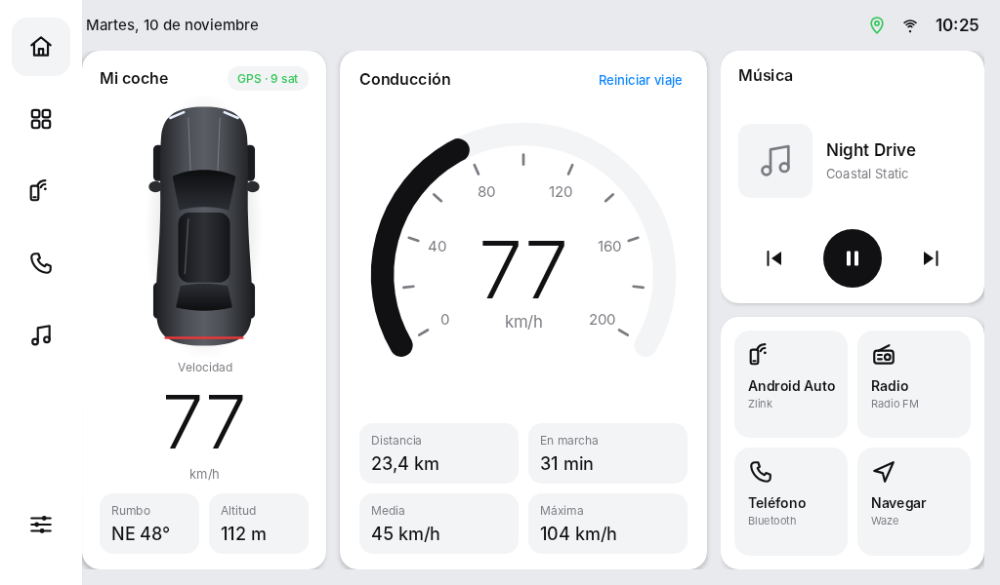
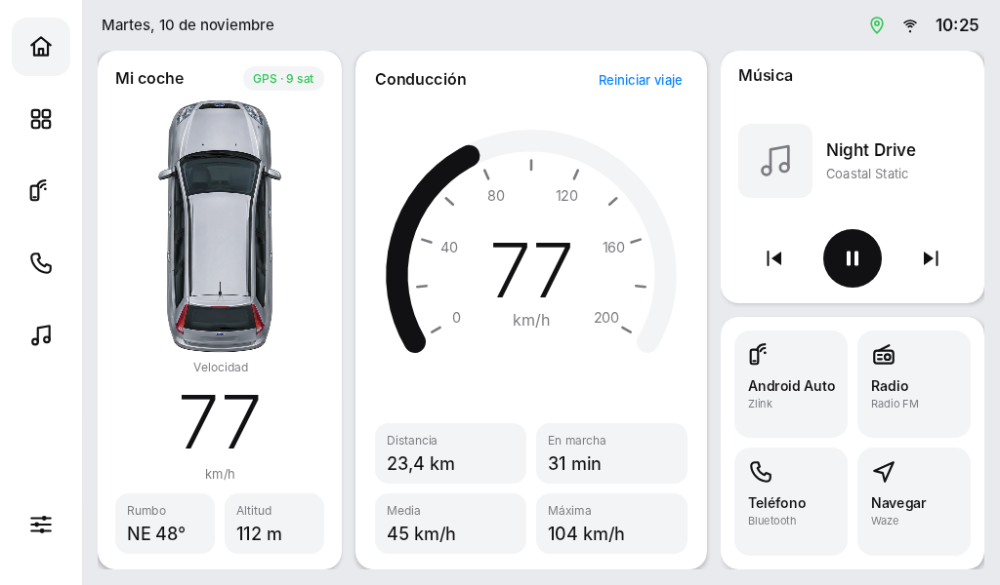
EdgeOS Car: imagen del coche personalizable, pantalla completa y márgenes
- La tarjeta "Mi coche" muestra una imagen: la de serie o la que elija el
  usuario desde el gestor de archivos (Sistema → Imagen del coche), que se
  copia a la memoria de la app. En radios sin gestor de archivos busca
  coche.png en la raíz de la memoria USB. Incluye una guía para generarla
  con IA: vista cenital, morro arriba, 1:2 (600 × 1200 px), fondo
  transparente o blanco. Fuera el coche dibujado.
- Pantalla completa inmersiva: sin barra de estado ni de navegación.
- Las tarjetas ya no se pegan a la barra lateral: mismo margen a los lados.

Claude-Session: https://claude.ai/code/session_01PvmPvmMTmhy1XMN1nUXEbe

diff --git a/car/src/main/kotlin/io/edgeos/car/HomeActivity.kt b/car/src/main/kotlin/io/edgeos/car/HomeActivity.kt
@@ -86,6 +86,7 @@ class HomeActivity : Activity() {
         apps = Apps(applicationContext)
         optimizer = Optimizer(applicationContext, prefs)
         setContentView(build())
+        Thread { CarImage.load(this)?.let { b -> main.post { carCard.setCar(b) } } }.start()
 
         drive.listen { s ->
             carCard.update(s)
@@ -116,7 +117,8 @@ class HomeActivity : Activity() {
         root.addView(rail, lp(px(84), MATCH))
 
         val content = Ui.column(this)
-        content.setPadding(0, 0, px(16), px(16))
+        // Mismo margen a los dos lados: las tarjetas no se pegan a la barra lateral.
+        content.setPadding(px(16), 0, px(16), px(16))
         topBar = TopBar(this)
         content.addView(topBar, lp(MATCH, px(52)))
         pages = FrameLayout(this)
@@ -155,6 +157,12 @@ class HomeActivity : Activity() {
             onShowMap = { showCenter() },
             onResetTrip = { drive.resetTrip() },
             onAskMediaAccess = ::askMediaAccess,
+            onPickCar = ::pickCar,
+            onResetCar = {
+                CarImage.reset(this)
+                carCard.setCar(null)
+                Toast.makeText(this, "Imagen de serie.", Toast.LENGTH_SHORT).show()
+            },
         )
         for (v in listOf(home, appsPage, systemPage)) pages.addView(v, FrameLayout.LayoutParams(MATCH, MATCH))
         show(Page.HOME)
@@ -229,6 +237,56 @@ class HomeActivity : Activity() {
             .onFailure { Toast.makeText(this, "Esta radio no tiene ese ajuste.", Toast.LENGTH_LONG).show() }
     }
 
+    // MARK: imagen del coche
+
+    private fun pickCar() {
+        val open = Intent(Intent.ACTION_OPEN_DOCUMENT).addCategory(Intent.CATEGORY_OPENABLE).setType("image/*")
+        val get = Intent(Intent.ACTION_GET_CONTENT).addCategory(Intent.CATEGORY_OPENABLE).setType("image/*")
+        for (intent in listOf(open, get)) {
+            if (runCatching { startActivityForResult(intent, PICK_CAR) }.isSuccess) return
+        }
+        // Algunas radios no traen selector de archivos: se busca coche.png en la memoria USB.
+        if (checkSelfPermission(Manifest.permission.READ_EXTERNAL_STORAGE) != PackageManager.PERMISSION_GRANTED) {
+            requestPermissions(arrayOf(Manifest.permission.READ_EXTERNAL_STORAGE), STORAGE)
+        } else {
+            carFromStorage()
+        }
+    }
+
+    private fun carFromStorage() {
+        val file = CarImage.findOnStorage()
+            ?: return Toast.makeText(this, "Copia la imagen como coche.png en la raíz de una memoria USB, conéctala y vuelve a pulsar.", Toast.LENGTH_LONG).show()
+        Thread { applyCar(runCatching { CarImage.save(this, file) }.getOrNull()) }.start()
+    }
+
+    override fun onActivityResult(requestCode: Int, resultCode: Int, data: Intent?) {
+        super.onActivityResult(requestCode, resultCode, data)
+        val uri = data?.data
+        if (requestCode != PICK_CAR || resultCode != RESULT_OK || uri == null) return
+        Thread { applyCar(runCatching { CarImage.save(this, uri) }.getOrNull()) }.start()
+    }
+
+    private fun applyCar(bitmap: android.graphics.Bitmap?) = main.post {
+        if (bitmap == null) return@post Toast.makeText(this, "No se pudo leer esa imagen.", Toast.LENGTH_LONG).show()
+        carCard.setCar(bitmap)
+        Toast.makeText(this, "Imagen del coche cambiada.", Toast.LENGTH_SHORT).show()
+    }
+
+    // MARK: pantalla completa
+
+    /** Sin barra de estado ni de navegación; deslizando desde el borde aparecen un momento y se vuelven a ocultar. */
+    @Suppress("DEPRECATION")
+    private fun immersive() {
+        window.decorView.systemUiVisibility = (View.SYSTEM_UI_FLAG_IMMERSIVE_STICKY or View.SYSTEM_UI_FLAG_FULLSCREEN or
+            View.SYSTEM_UI_FLAG_HIDE_NAVIGATION or View.SYSTEM_UI_FLAG_LAYOUT_STABLE or
+            View.SYSTEM_UI_FLAG_LAYOUT_HIDE_NAVIGATION or View.SYSTEM_UI_FLAG_LAYOUT_FULLSCREEN)
+    }
+
+    override fun onWindowFocusChanged(hasFocus: Boolean) {
+        super.onWindowFocusChanged(hasFocus)
+        if (hasFocus) immersive()
+    }
+
     private fun askLocation() {
         if (checkSelfPermission(Manifest.permission.ACCESS_FINE_LOCATION) != PackageManager.PERMISSION_GRANTED) {
             requestPermissions(arrayOf(Manifest.permission.ACCESS_FINE_LOCATION, Manifest.permission.ACCESS_COARSE_LOCATION), 1)
@@ -236,6 +294,11 @@ class HomeActivity : Activity() {
     }
 
     override fun onRequestPermissionsResult(requestCode: Int, permissions: Array<out String>, results: IntArray) {
+        if (requestCode == STORAGE) {
+            if (results.firstOrNull() == PackageManager.PERMISSION_GRANTED) carFromStorage()
+            else Toast.makeText(this, "Sin permiso de almacenamiento no puedo leer la memoria USB.", Toast.LENGTH_LONG).show()
+            return
+        }
         if (results.firstOrNull() == PackageManager.PERMISSION_GRANTED && resumed) drive.start()
         else if (results.isNotEmpty()) Toast.makeText(this, "Sin permiso de ubicación no hay velocidad.", Toast.LENGTH_LONG).show()
     }
@@ -250,6 +313,7 @@ class HomeActivity : Activity() {
     // ubicación en segundo plano; para contar el viaje siempre haría falta un servicio en primer plano.
     override fun onResume() {
         super.onResume()
+        immersive()
         resumed = true
         drive.start()
         media.start()
@@ -276,6 +340,11 @@ class HomeActivity : Activity() {
     override fun onNewIntent(intent: Intent) {
         super.onNewIntent(intent)
         if (intent.hasCategory(Intent.CATEGORY_HOME)) show(Page.HOME)
+    }
+
+    private companion object {
+        const val PICK_CAR = 7
+        const val STORAGE = 8
     }
 
     @Deprecated("Deprecated in Java")

diff --git a/car/src/main/kotlin/io/edgeos/car/ui/SystemPage.kt b/car/src/main/kotlin/io/edgeos/car/ui/SystemPage.kt
@@ -35,6 +35,8 @@ class SystemPage(
     private val onShowMap: (Boolean) -> Unit,
     private val onResetTrip: () -> Unit,
     private val onAskMediaAccess: () -> Unit,
+    private val onPickCar: () -> Unit,
+    private val onResetCar: () -> Unit,
 ) : LinearLayout(context) {
     private val main = Handler(Looper.getMainLooper())
     private val work = Executors.newSingleThreadExecutor()
@@ -70,6 +72,7 @@ class SystemPage(
         left.addView(stateCard())
         left.addView(quickCard(), lp(MATCH, WRAP).apply { topMargin = px(14) })
         left.addView(settingsCard(), lp(MATCH, WRAP).apply { topMargin = px(14) })
+        left.addView(carCard(), lp(MATCH, WRAP).apply { topMargin = px(14) })
         val scroll = ScrollView(context).apply { isVerticalScrollBarEnabled = false; clipToPadding = false; setPadding(px(2), 0, px(2), px(4)) }
         scroll.addView(left)
         addView(scroll, lp(0, MATCH, 0.42f))
@@ -157,6 +160,33 @@ class SystemPage(
         addView(link("Pantalla de inicio predeterminada") {
             open(Intent(android.provider.Settings.ACTION_HOME_SETTINGS))
         })
+    }
+
+    private fun carCard() = card("Imagen del coche").apply {
+        val buttons = Ui.row(context)
+        val pick = Ui.text(context, "Elegir imagen…", 14f, android.graphics.Color.WHITE, Ui.semibold, Gravity.CENTER)
+        pick.background = Ui.pressable(Ui.INK, 12f)
+        pick.setPadding(0, px(12), 0, px(12))
+        pick.setOnClickListener { onPickCar() }
+        val reset = Ui.text(context, "Usar la de serie", 14f, Ui.TEXT, Ui.semibold, Gravity.CENTER)
+        reset.background = Ui.pressable(Ui.TILE, 12f)
+        reset.setPadding(0, px(12), 0, px(12))
+        reset.setOnClickListener { onResetCar() }
+        buttons.addView(pick, lp(0, WRAP, 1f))
+        buttons.addView(reset, lp(0, WRAP, 1f).apply { marginStart = px(10) })
+        addView(buttons, lp(MATCH, WRAP).apply { topMargin = px(4) })
+
+        val guide = Ui.text(context, CAR_GUIDE, 12f, Ui.TEXT2).apply {
+            maxLines = 40
+            ellipsize = null
+            setLineSpacing(0f, 1.25f)
+        }
+        val box = Ui.column(context)
+        box.background = Ui.rounded(Ui.TILE, 12f)
+        box.setPadding(px(14), px(12), px(14), px(12))
+        box.addView(Ui.text(context, "Cómo crear la tuya con IA", 13f, Ui.TEXT, Ui.semibold))
+        box.addView(guide, lp(MATCH, WRAP).apply { topMargin = px(6) })
+        addView(box, lp(MATCH, WRAP).apply { topMargin = px(12) })
     }
 
     private fun link(text: String, action: () -> Unit) = Ui.text(context, text, 14f, Ui.ACCENT, Ui.medium).apply {
@@ -334,4 +364,13 @@ class SystemPage(
     }
 
     private fun toast(text: String) = Toast.makeText(context, text, Toast.LENGTH_LONG).show()
+
+    private companion object {
+        val CAR_GUIDE = """
+            1. Pide a una IA de imágenes (ChatGPT, Gemini, Copilot…) algo así:
+            «Vista cenital exacta, desde arriba, de un [marca, modelo y color de tu coche], con el morro hacia arriba, centrado y recto, sin perspectiva. Fondo blanco liso o transparente, sin sombras ni texto. Imagen vertical de 600 × 1200 píxeles; el coche ocupa casi todo el alto.»
+            2. Medidas: vertical, proporción 1:2 (600 × 1200 px es ideal). PNG con fondo transparente o blanco.
+            3. Pásala a la radio: cópiala a una memoria USB (si la llamas coche.png, EdgeOS Car la encuentra sola), conéctala y pulsa «Elegir imagen…».
+        """.trimIndent()
+    }
 }

diff --git a/car/src/main/kotlin/io/edgeos/car/CarImage.kt b/car/src/main/kotlin/io/edgeos/car/CarImage.kt
@@ -1,0 +1,57 @@
+package io.edgeos.car
+
+import android.content.Context
+import android.graphics.Bitmap
+import android.graphics.BitmapFactory
+import android.net.Uri
+import android.os.Environment
+import java.io.File
+import java.io.InputStream
+
+/**
+ * La imagen del coche de Inicio: la que eligió el usuario (copiada a la memoria privada, así funciona aunque se
+ * quite la memoria USB) o, si no hay, la de serie. Vista desde arriba, morro hacia arriba, proporción 1:2.
+ */
+object CarImage {
+    const val DEFAULT = R.drawable.car_default
+    private const val MAX_HEIGHT = 1200
+    val NAMES = listOf("coche.png", "coche.webp", "coche.jpg", "coche.jpeg")
+
+    private fun file(context: Context) = File(context.filesDir, "car.png")
+
+    /** La del usuario, o null para la de serie. */
+    fun load(context: Context): Bitmap? = file(context).takeIf { it.exists() }?.let { BitmapFactory.decodeFile(it.path) }
+
+    fun reset(context: Context) {
+        file(context).delete()
+    }
+
+    /** Copia la imagen elegida, reducida a 1200 px de alto como mucho. Llamar fuera del hilo principal. */
+    fun save(context: Context, uri: Uri): Bitmap? = save(context) { context.contentResolver.openInputStream(uri) }
+
+    fun save(context: Context, source: File): Bitmap? = save(context) { source.inputStream() }
+
+    private fun save(context: Context, open: () -> InputStream?): Bitmap? {
+        val bounds = BitmapFactory.Options().apply { inJustDecodeBounds = true }
+        open()?.use { BitmapFactory.decodeStream(it, null, bounds) }
+        if (bounds.outHeight <= 0) return null
+        var sample = 1
+        while (bounds.outHeight / (sample * 2) >= MAX_HEIGHT) sample *= 2
+        val bitmap = open()?.use { BitmapFactory.decodeStream(it, null, BitmapFactory.Options().apply { inSampleSize = sample }) }
+            ?: return null
+        val tmp = File(file(context).path + ".tmp")
+        tmp.outputStream().use { bitmap.compress(Bitmap.CompressFormat.PNG, 100, it); it.fd.sync() }
+        tmp.renameTo(file(context))
+        return bitmap
+    }
+
+    /**
+     * Para radios sin selector de archivos (algunas quitan DocumentsUI): busca "coche.png" en la raíz de la
+     * memoria interna y de las memorias USB/SD. Necesita el permiso de almacenamiento.
+     */
+    fun findOnStorage(): File? {
+        val roots = listOf(Environment.getExternalStorageDirectory()) +
+            (File("/storage").listFiles()?.toList() ?: emptyList()) + (File("/mnt/media_rw").listFiles()?.toList() ?: emptyList())
+        return roots.asSequence().flatMap { root -> NAMES.asSequence().map { File(root, it) } }.firstOrNull { it.canRead() }
+    }
+}

diff --git a/car/src/main/kotlin/io/edgeos/car/ui/Cards.kt b/car/src/main/kotlin/io/edgeos/car/ui/Cards.kt
@@ -12,6 +12,8 @@ import android.widget.ImageView
 import android.widget.LinearLayout
 import android.widget.TextView
 import io.edgeos.car.App
+import io.edgeos.car.CarImage
+import android.graphics.Bitmap
 import io.edgeos.car.drive.Drive
 import io.edgeos.car.drive.DriveState
 import io.edgeos.car.drive.NowPlaying
@@ -46,6 +48,7 @@ class CarCard(context: Context) : LinearLayout(context) {
     private val speed = Ui.text(context, "0", 76f, Ui.TEXT, Ui.light, Gravity.CENTER)
     private val heading = Stat(context, "Rumbo", 18f)
     private val altitude = Stat(context, "Altitud", 18f)
+    private val car = ImageView(context)
     private var shown = -1
     private val speedTween = Tween { v ->
         val n = Math.round(v)
@@ -62,7 +65,9 @@ class CarCard(context: Context) : LinearLayout(context) {
         gps.setPadding(px(10), px(5), px(10), px(5))
         head.addView(gps)
         addView(head)
-        addView(CarView(context), lp(MATCH, 0, 1f).apply { topMargin = px(6); bottomMargin = px(4) })
+        car.scaleType = ImageView.ScaleType.FIT_CENTER
+        car.setImageResource(CarImage.DEFAULT)
+        addView(car, lp(MATCH, 0, 1f).apply { topMargin = px(8); bottomMargin = px(6) })
         addView(Ui.text(context, "Velocidad", 12f, Ui.TEXT2, gravity = Gravity.CENTER), lp(MATCH, WRAP))
         addView(speed, lp(MATCH, WRAP).apply { topMargin = px(2) })
         addView(Ui.text(context, "km/h", 13f, Ui.TEXT2, gravity = Gravity.CENTER), lp(MATCH, WRAP))
@@ -73,6 +78,11 @@ class CarCard(context: Context) : LinearLayout(context) {
             tiles.addView(s, lp(0, WRAP, 1f).apply { if (s === altitude) marginStart = px(10) })
         }
         addView(tiles, lp(MATCH, WRAP).apply { topMargin = px(12) })
+    }
+
+    /** La imagen del usuario, o null para la de serie. */
+    fun setCar(bitmap: Bitmap?) {
+        if (bitmap != null) car.setImageBitmap(bitmap) else car.setImageResource(CarImage.DEFAULT)
     }
 
     fun update(s: DriveState) {

diff --git a/car/src/main/kotlin/io/edgeos/car/ui/Ui.kt b/car/src/main/kotlin/io/edgeos/car/ui/Ui.kt
@@ -24,8 +24,10 @@ import kotlin.math.roundToInt
 object Ui {
     private var k = 1f
 
+    @Suppress("DEPRECATION") // getRealMetrics es la única forma en Android 8.
     fun init(activity: Activity) {
-        val m = activity.resources.displayMetrics
+        // La pantalla entera: el launcher va a pantalla completa, sin la barra del sistema.
+        val m = android.util.DisplayMetrics().also { activity.windowManager.defaultDisplay.getRealMetrics(it) }
         val w = maxOf(m.widthPixels, m.heightPixels)
         val h = minOf(m.widthPixels, m.heightPixels)
         k = min(w / 1024f, h / 600f)

diff --git a/car/README.md b/car/README.md
@@ -29,7 +29,8 @@ Sistema muestra "layoutlib" en vez del modelo y deja la memoria en blanco, cosas
 ## Qué tiene
 
 **Inicio**
-- **Mi coche**: un coche dibujado visto desde arriba, la **velocidad por GPS** en grande, el rumbo y la altitud.
+- **Mi coche**: tu coche visto desde arriba, la **velocidad por GPS** en grande, el rumbo y la altitud. La imagen
+  se cambia en Sistema → *Imagen del coche* (ver abajo).
 - **En el centro, a elegir** en Sistema → Ajustes:
   - **Mapa** de OpenStreetMap en gris claro, con tu posición, zoom, recentrar y el botón **Navegar** (abre Google
     Maps, Waze u otra). Necesita internet para las zonas nuevas; las ya vistas se guardan para verlas sin conexión.
@@ -88,6 +89,20 @@ Si la radio no tiene el ADB por red abierto (el puerto 5555), se abre una vez de
 conectada por USB: `adb tcpip 5555`. En muchas radios hay que repetirlo tras cada arranque. Lo que ya desactivaste
 sigue desactivado aunque el ADB esté cerrado.
 
+### Poner la imagen de tu coche
+
+Sistema → **Imagen del coche** → *Elegir imagen…* abre el gestor de archivos de la radio. *Usar la de serie*
+vuelve a la de fábrica. Para crearla con IA (ChatGPT, Gemini, Copilot…), pide algo así:
+
+> Vista cenital exacta, desde arriba, de un [marca, modelo y color de tu coche], con el morro hacia arriba,
+> centrado y recto, sin perspectiva. Fondo blanco liso o transparente, sin sombras ni texto. Imagen vertical de
+> 600 × 1200 píxeles; el coche ocupa casi todo el alto.
+
+- **Medidas:** vertical, proporción 1:2 (600 × 1200 px es ideal). PNG con fondo transparente o blanco.
+- **Pasarla a la radio:** cópiala a una memoria USB y elígela. Si la radio no tiene gestor de archivos, llámala
+  **coche.png**, déjala en la raíz de la memoria y EdgeOS Car la encuentra sola (pide permiso de almacenamiento).
+- Se copia dentro de la app: después puedes quitar la memoria USB.
+
 ## Volver atrás
 
 - Sistema → **Restaurar todo**. Sin EdgeOS Car: `adb shell pm enable <paquete>`.
@@ -104,6 +119,8 @@ sigue desactivado aunque el ADB esté cerrado.
 
 ## Cómo está hecho
 
+Va a **pantalla completa**: sin barra de estado ni de navegación (deslizando desde el borde aparecen un momento).
+
 Kotlin con vistas clásicas de Android, sin Compose ni AndroidX: en un Mali-400 cada milisegundo cuenta. Todo se
 diseña sobre 1024×600 y se escala a la pantalla real (`ui/Ui.kt`).
 
@@ -116,4 +133,5 @@ diseña sobre 1024×600 y se escala a la pantalla real (`ui/Ui.kt`).
 | `system/Optimizer.kt` | Servicios innecesarios, filtro de lo del coche, memoria, animaciones. |
 | `system/Shell.kt`, `system/LocalAdb.kt` | Acceso al sistema: root o el ADB de la propia radio (cliente adaptado de Free My TV, MIT). |
 | `ui/Tween.kt` | Lleva velocidad, aguja y mapa al nuevo dato fotograma a fotograma: el GPS da uno por segundo. |
-| `ui/` | Tarjetas, mapa, coche, iconos y páginas. |
+| `CarImage.kt` | La imagen del coche: la de serie o la del usuario, copiada a la memoria de la app. |
+| `ui/` | Tarjetas, mapa, iconos y páginas. |
